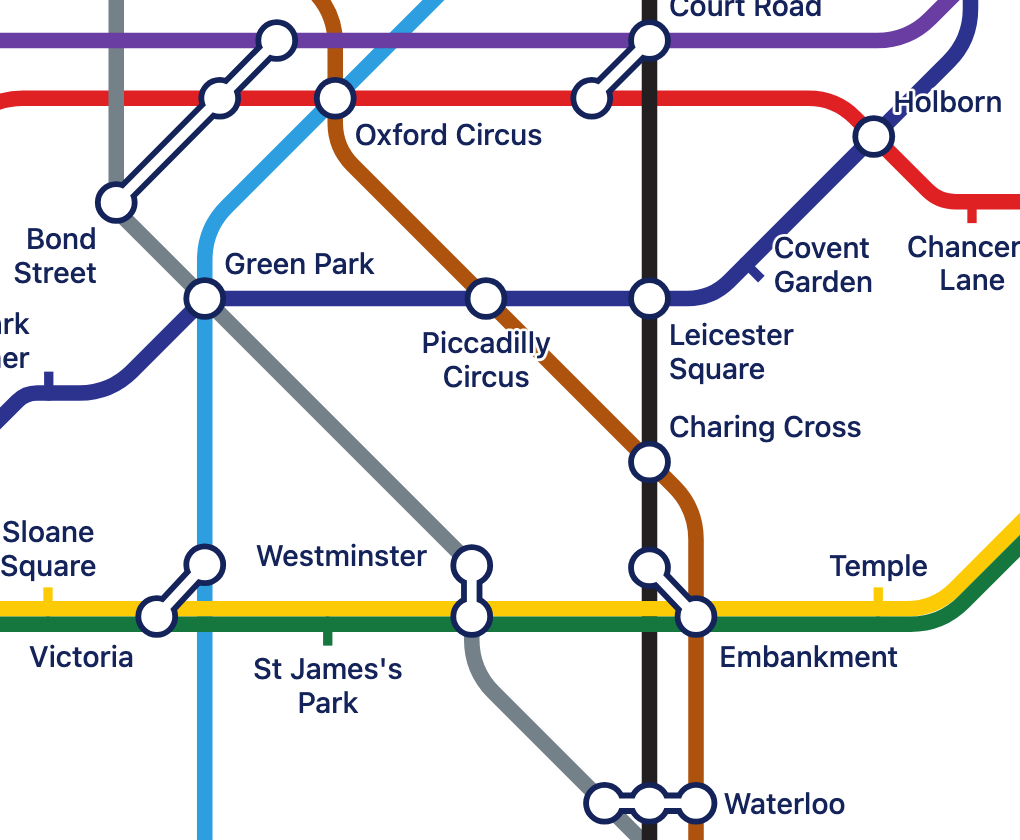
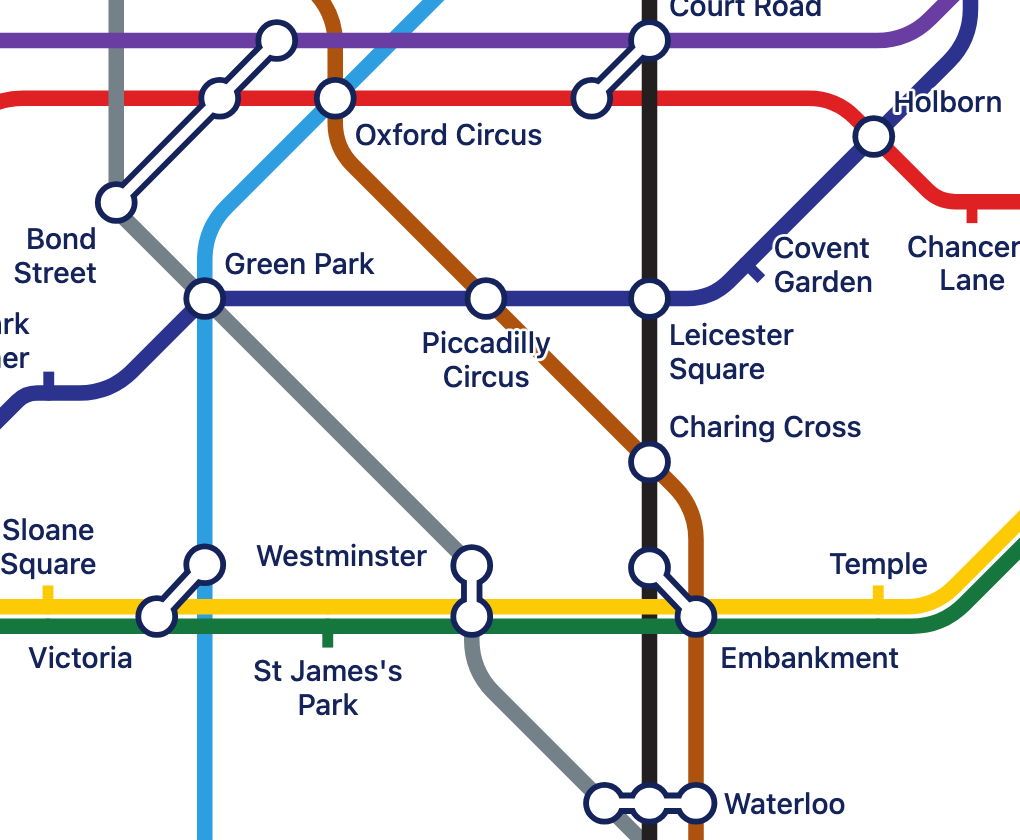
Keep a gap between shared lines, curve branches in, flatten line ends, and release 0.3.0
Lines that share track now sit a quarter of a line width apart. A branch
that meets its line at an angle curves onto it. A line stops flat against
the bar at its last station, and where a line turns at a station the tick
points at the name and sits level with the outside of the corner.

The comparison with the official map is re-measured: 85.1% of pixels match.
The Circle and District lines touch on the official map, so the gap lowers
their figures to 63% and 70%.

diff --git a/src/layout/tracks.ts b/src/layout/tracks.ts
@@ -23,10 +23,15 @@ export interface LineLayout {
 export interface Pass {
   line: string
   at: Point
-  /** The direction the line runs in here, as a vector of length 1. */
+  /** The direction the line runs in here, as a vector of length 1. Where the line ends, it points off the end of the line. */
   along: Point
   /** True when the line ends at this station. */
   terminus: boolean
+  /**
+   * The line's other pieces of track at this station, where it turns or a branch leaves. Each is a direction that
+   * points from its piece through the station, as `along` does. A tick can stand square to any of them.
+   */
+  alsoAlong: Point[]
 }
 
 /**
@@ -205,14 +210,20 @@ export function drawLines(
     const addNeighbour = (of: string, neighbour: string) => {
       neighbours.set(of, (neighbours.get(of) ?? new Set()).add(neighbour))
     }
-    const addPass = (station: string, at: Point, along: Point) => {
+    // `awayFromNeighbour` points from the station's neighbour on this stretch through the station and out the other side.
+    const addPass = (station: string, at: Point, awayFromNeighbour: Point) => {
       const atStation = passes.get(station) ?? []
       passes.set(station, atStation)
-      if (atStation.some((pass) => pass.line === line.id)) return
-      atStation.push({ line: line.id, at, along, terminus: false })
+      const earlier = atStation.find((pass) => pass.line === line.id)
+      if (earlier === undefined) {
+        atStation.push({ line: line.id, at, along: awayFromNeighbour, alsoAlong: [], terminus: false })
+      } else {
+        earlier.alsoAlong.push(awayFromNeighbour)
+      }
     }
 
-    const segments = new Map<string, SegmentLayout>()
+    // The line's steps from one station to the next. A step that two stretches share is kept once.
+    const steps = new Map<string, DrawnStep>()
     for (const run of line.runs) {
       // Collect the run's straight pieces, noting which piece starts each station-to-station step.
       const pieces: OffsetSegment[] = []
@@ -239,26 +250,88 @@ export function drawLines(
         const firstPiece = stepStarts[i - 1]!
         const lastPiece = stepStarts[i]! - 1
         const stepPoints = points.slice(joins[firstPiece]!, joins[lastPiece + 1]! + 1)
-        addPass(run[i - 1]!, stepPoints[0]!, direction(pieces[firstPiece]!.from, pieces[firstPiece]!.to))
+        addPass(run[i - 1]!, stepPoints[0]!, direction(pieces[firstPiece]!.to, pieces[firstPiece]!.from))
         addPass(run[i]!, stepPoints.at(-1)!, direction(pieces[lastPiece]!.from, pieces[lastPiece]!.to))
         // A branch can repeat a step the main stretch already drew.
         const { key } = trackBetween(stopAt(run[i - 1]!, line.id), stopAt(run[i]!, line.id))
-        if (!segments.has(key)) {
-          const path = roundedPath(stepPoints, METRICS.cornerRadius)
-          const box = grow(boxAround(stepPoints), METRICS.lineWidth / 2)
-          segments.set(key, { from: run[i - 1]!, to: run[i]!, path, middle: middleOf(stepPoints), box })
+        if (!steps.has(key)) {
+          steps.set(key, { from: run[i - 1]!, to: run[i]!, points: stepPoints, startsStretch: i === 1, endsStretch: i === run.length - 1 })
         }
       }
     }
+
+    // Every direction the line leaves each station in. A stretch that ends at a station reads these to find the track it joins.
+    const leaving = new Map<string, Point[]>()
+    for (const step of steps.values()) {
+      leaving.set(step.from, [...(leaving.get(step.from) ?? []), direction(step.points[0]!, step.points[1]!)])
+      leaving.set(step.to, [...(leaving.get(step.to) ?? []), direction(step.points.at(-1)!, step.points.at(-2)!)])
+    }
+    const segments = [...steps.values()].map((step): SegmentLayout => {
+      const points = [...step.points]
+      if (step.startsStretch) points.unshift(...mergeOnto(leaving.get(step.from)!, points[0]!, points[1]!))
+      if (step.endsStretch) points.push(...mergeOnto(leaving.get(step.to)!, points.at(-1)!, points.at(-2)!))
+      return {
+        from: step.from,
+        to: step.to,
+        path: roundedPath(points, METRICS.cornerRadius),
+        // The arrow sits half-way between the two stations, so it is placed without the extra track of a merge.
+        middle: middleOf(step.points),
+        box: grow(boxAround(points), METRICS.lineWidth / 2),
+      }
+    })
 
     for (const [station, others] of neighbours) {
       const pass = passes.get(station)?.find((candidate) => candidate.line === line.id)
       if (pass !== undefined) pass.terminus = others.size === 1
     }
-    lines.push({ id: line.id, segments: [...segments.values()] })
+    lines.push({ id: line.id, segments })
   }
   return { lines, passes }
 }
+
+/** One station-to-station step of a line, before it is turned into a path. */
+interface DrawnStep {
+  from: string
+  to: string
+  points: Point[]
+  /** True when the step is the first or the last of one of the line's stretches, such as where a branch begins. */
+  startsStretch: boolean
+  endsStretch: boolean
+}
+
+/**
+ * Where a branch meets its line at an angle, a tube map curves the branch
+ * onto the line. Without that the branch runs straight into the station and
+ * the two meet at a sharp point.
+ *
+ * `mergeOnto` takes the end of a stretch. That is the station it ends `at`
+ * and the point it arrives `from`. It also takes each direction the line
+ * leaves that station in.
+ *
+ * It returns one more point for the stretch, a short way along the track that
+ * needs the smallest turn. The corner at the station is rounded like any
+ * other, and that draws the curve.
+ *
+ * It returns nothing when the line stops here. It also returns nothing when
+ * the smallest turn is a right angle or sharper.
+ */
+function mergeOnto(leaving: Point[], at: Point, from: Point): Point[] {
+  const arriving = direction(from, at)
+  let onwards: Point | undefined
+  let straightest = STRAIGHT_ENOUGH
+  for (const candidate of leaving) {
+    // 1 when the candidate carries straight on, 0 for a right angle.
+    const straightness = candidate.x * arriving.x + candidate.y * arriving.y
+    if (straightness > straightest && straightness < 1 - STRAIGHT_ENOUGH) {
+      straightest = straightness
+      onwards = candidate
+    }
+  }
+  return onwards === undefined ? [] : [move(at, onwards, METRICS.cornerRadius)]
+}
+
+/** Turns are compared as the cosine of their angle. This is the margin that keeps a right angle, and a line that already runs straight on, from counting as a merge. */
+const STRAIGHT_ENOUGH = 0.01
 
 /**
  * Two stops name the same track whichever way a line travels between them.

diff --git a/src/layout/layout.ts b/src/layout/layout.ts
@@ -57,7 +57,8 @@ export function layoutNetwork(network: Network): MapLayout {
 
   const obstacles: TrackObstacle[] = []
   for (const track of tracks.values()) {
-    const halfWidth = (track.lines.length * METRICS.lineSpacing) / 2
+    // Half of what the track's lines cover: the first and last line are a spacing apart for each line between them, and each reaches half its width further out.
+    const halfWidth = ((track.lines.length - 1) * METRICS.lineSpacing + METRICS.lineWidth) / 2
     for (let i = 1; i < track.points.length; i++) obstacles.push({ from: track.points[i - 1]!, to: track.points[i]!, halfWidth })
   }
 
@@ -125,15 +126,45 @@ function runSideBySide(passes: Pass[]): boolean {
 
 /** A tick becomes a bar across the line at the end of a line, or when the name sits in line with the track. */
 function isBar(pass: Pass, labelSide: Point): boolean {
-  const across = clockwiseNormal(pass.along)
+  const across = clockwiseNormal(trackUnderTick(pass, labelSide))
   return pass.terminus || Math.abs(across.x * labelSide.x + across.y * labelSide.y) < 0.1
 }
 
-/** A tick sticks out of the line towards the station's name. A bar crosses the line instead. */
+/**
+ * A tick sticks out of the line towards the station's name. A bar crosses the line instead.
+ *
+ * Where a piece of track stops at a station, at the end of a line or at a
+ * turn, it is drawn with a rounded end that reaches half the line's width
+ * past the station. A tick is thinner than the line, so one left on the
+ * station would stick out of the middle of that rounded end. There the tick
+ * moves out until its edge is level with the end of the track, which gives
+ * the track a flat end.
+ */
 function tickFor(pass: Pass, labelSide: Point): { from: Point; to: Point } {
-  const across = clockwiseNormal(pass.along)
+  const track = trackUnderTick(pass, labelSide)
+  const across = clockwiseNormal(track)
   const reach = (Math.sign(across.x * labelSide.x + across.y * labelSide.y) || 1) * METRICS.tickReach
-  return { from: isBar(pass, labelSide) ? move(pass.at, across, -reach) : pass.at, to: move(pass.at, across, reach) }
+  // The track carries on when another piece of the line leaves the station the opposite way.
+  const trackStopsHere = !pass.alsoAlong.some((other) => other.x * track.x + other.y * track.y < SAME_PLACE - 1)
+  const middle = trackStopsHere ? move(pass.at, track, (METRICS.lineWidth - METRICS.tickWidth) / 2) : pass.at
+  return { from: isBar(pass, labelSide) ? move(middle, across, -reach) : middle, to: move(middle, across, reach) }
+}
+
+/**
+ * A tick stands square to its line. Where the line turns at a station there
+ * is more than one piece of track to stand square to, and the wrong one
+ * leaves the tick pointing past the station's name.
+ *
+ * `trackUnderTick` returns the direction of the piece whose tick points most
+ * nearly at the name.
+ */
+function trackUnderTick(pass: Pass, labelSide: Point): Point {
+  const towardsName = (track: Point) => Math.abs(track.x * labelSide.y - track.y * labelSide.x)
+  let best = pass.along
+  for (const track of pass.alsoAlong) {
+    if (towardsName(track) > towardsName(best) + SAME_PLACE) best = track
+  }
+  return best
 }
 
 function boundsOf(stations: StationLayout[]): Box {

diff --git a/src/layout/metrics.ts b/src/layout/metrics.ts
@@ -8,12 +8,14 @@ export const METRICS = {
   /** The size of one grid unit of a station's position. */
   gridSize: 44,
   lineWidth: 8,
-  /** The distance between the centres of two lines that share track. It equals the line width, so the lines touch as they do on a tube map. */
-  lineSpacing: 8,
+  /** The distance between the centres of two lines that share track. It is a quarter more than the line width, which leaves the thin gap a tube map shows between lines that run together. */
+  lineSpacing: 10,
   cornerRadius: 16,
   labelFontSize: 15,
   /** How far a station's tick reaches from the centre of its line. */
   tickReach: 11,
+  /** How thick a tick is. It is at least half the line width, so the bar at the end of a line covers the line's rounded end. */
+  tickWidth: 5.6,
   /** The radius of the white disc at an interchange, before its outline. */
   interchangeRadius: 8,
   /** The width of the dark ring round an interchange disc. */

diff --git a/src/render/styles.ts b/src/render/styles.ts
@@ -73,7 +73,7 @@ export const STYLES: string = /* css */ `
 .arrow { fill: var(--background); }
 .tick {
   fill: none;
-  stroke-width: ${METRICS.lineWidth * 0.6};
+  stroke-width: ${METRICS.tickWidth};
   stroke-linecap: butt;
 }
 .interchange-outline,

diff --git a/README.md b/README.md
@@ -68,7 +68,7 @@ These are the rules the library is built on.
 1. **It is a graph first.** The tube map is the interface, and the data underneath is nodes, paths and weighted, directed edges. Nothing in the library knows about trains.
 2. **Track runs in eight directions only.** Every stretch is horizontal, vertical or at 45°. This one rule is most of what makes a tube map look like a tube map.
 3. **A line runs straight through a station.** Each stretch between two stations gets at most one bend, and the bend sits away from the stations where it can.
-4. **Lines that share track run side by side.** They touch, keep their order, and share one station mark.
+4. **Lines that share track run side by side.** They keep a thin gap between them, keep their order, and share one station mark.
 5. **A station is a tick, and an interchange is a ring.** Lines that stop a short way apart get a ring each, joined by a walkway.
 6. **Your positions are kept.** Give positions and the map draws your design. Leave them out and it places the stations itself, which suits small graphs.
 7. **The layout is plain geometry.** Positions, track and names are worked out before anything is drawn, without a browser. That is why the layout can be unit tested.
@@ -184,11 +184,12 @@ both at the same size, and compared them pixel by pixel.
 
 | Measure | Result |
 | --- | --- |
-| Pixels that match | 85.8% |
+| Pixels that match | 85.1% |
 | Victoria line | 92% |
 | Central line | 86% |
 | Bakerloo line | 84% |
-| Circle and District lines | 83% |
+| District line | 70% |
+| Circle line | 63% |
 | Jubilee line | 43% |
 | Elizabeth line | 36% |
 
@@ -200,6 +201,7 @@ What doesn't match yet:
 - The official map uses its own typeface. tubeline uses yours.
 - tubeline has no step-free, rail or river symbols, and draws no river.
 - tubeline allows one bend between two stations. The official map sometimes uses two.
+- tubeline keeps a thin gap between all lines that share track. The official map lets some touch, such as the Circle and District lines.
 - tubeline draws every line solid. The official map also has hollow and dashed lines.
 
 This is tubeline's own drawing of that area:

diff --git a/CHANGELOG.md b/CHANGELOG.md
@@ -7,6 +7,18 @@ This project uses [Semantic Versioning](https://semver.org/spec/v2.0.0.html).
 
 ## [Unreleased]
 
+## [0.3.0] - 2026-11-23
+
+### Changed
+
+- Lines that share track keep a thin gap between them. They used to touch.
+- A branch that meets its line at an angle curves onto it. It used to meet
+  it at a sharp point.
+- A line stops flat against the bar at its last station. Its rounded end used
+  to show past the bar.
+- Where a line turns at a station, the tick points at the station's name and
+  sits level with the outside of the corner.
+
 ## [0.2.1] - 2026-11-19
 
 ### Added
